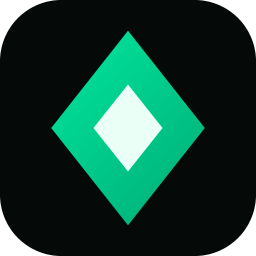
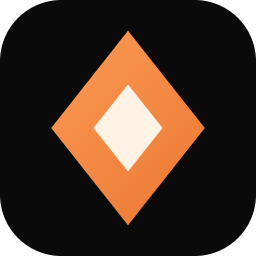
تصميم جديد بأسلوب OpenCode: لوحة سوداء محايدة بلمسة برتقالية، زوايا شبه حادة، خطوط mono، وأيقونة مطابقة

Changed region(s): [[0.1875, 0.125, 0.8125, 0.875]]

diff --git a/theme.py b/theme.py
@@ -39,9 +39,10 @@ def ui_font(size=10, weight="normal"):
 
 
 def display_font(size=22, weight="bold"):
+    # عناوين بأسلوب الطرفية: monospace يعطي طابع TUI حتى في النوافذ.
     if weight == "normal":
-        return (DISPLAY_FONT_FAMILY, size)
-    return (DISPLAY_FONT_FAMILY, size, weight)
+        return (MONO_FONT_FAMILY, size)
+    return (MONO_FONT_FAMILY, size, weight)
 
 
 def mono_font(size=10, weight="normal"):
@@ -61,7 +62,8 @@ SPACE = {
 }
 
 # نصف قطر الزوايا الموحّد للبطاقات والأزرار.
-RADIUS = {"sm": 6, "md": 10, "lg": 14}
+# حواف شبه حادة بأسلوب الطرفية (terminal)؛ التفاصيل الأربعة تظل لطيفة في الفاتح.
+RADIUS = {"sm": 3, "md": 5, "lg": 6}
 
 
 def shade(hex_color, factor):
@@ -112,11 +114,11 @@ def space(*keys):
 
 
 def thought_font():
-    return (UI_FONT_FAMILY, 9, "italic")
+    return (MONO_FONT_FAMILY, 9, "italic")
 
 
 def tool_line_font():
-    return (UI_FONT_FAMILY, 8, "italic")
+    return (MONO_FONT_FAMILY, 8, "italic")
 
 
 def menu_font():
@@ -149,28 +151,29 @@ COLORS = {
     "secondary_bg": "#E6EEEB",
 }
 
-# هوية «أخضر زمردي على قماش داكن» احترافية بطابع تقني هادئ.
-# سلّم عمق: fog (رئيسية) < secondary_bg < surface (بطاقات) < chip/elevated.
+# هوية «طرفية OpenCode»: أسود محايد رمادي (ليس مخضرًّا) مع لمسة برتقالية واحدة،
+# حواف شبه حادة وطبقة mono للتفاصيل — إحساس TUI داخل نافذة سطح مكتب.
+# سلّم عمق محايد: fog (رئيسية) < secondary_bg < surface (بطاقات) < chip/elevated.
 DARK_COLORS = {
-    "ink": "#F3F7F5",       # نص رئيسي
-    "fog": "#07110F",       # خلفية رئيسية
-    "surface": "#10201C",   # خلفية البطاقات
-    "muted": "#9AB0A9",     # نص ثانوي
-    "teal": "#00D99A",      # اللون الأساسي
-    "copper": "#F5B942",    # تحذير/إبراز ثانوي
-    "danger": "#FF647C",    # خطأ
-    "line": "#223A33",      # حدود خفيفة
-    "soft_teal": "#0C2A22",  # خلفية أساسية ناعمة (فقاعة المستخدم/النشط)
-    "soft_copper": "#2C2612",
-    "soft_danger": "#2E1820",
-    "focus": "#19E6AC",     # الأساسي عند التحويم/حلقة التركيز
-    "band_bg": "#0B1714",   # خلفية ثانوية (شريط الحالة)
-    "band_fg": "#F3F7F5",
-    "chip": "#142823",      # خلفية مرتفعة (الرقائق)
-    "chip_fg": "#D7E6E0",
-    "success": "#25C990",
-    "warning": "#F5B942",
-    "info": "#55A7FF",
-    "elevated": "#142823",
-    "secondary_bg": "#0B1714",
+    "ink": "#EDEDEE",       # نص رئيسي فاتح محايد
+    "fog": "#0A0A0A",       # خلفية رئيسية شبه سوداء
+    "surface": "#141414",   # خلفية البطاقات
+    "muted": "#8A8A8A",     # نص ثانوي رمادي
+    "teal": "#FF8F40",      # اللون الأساسي (برتقالي OpenCode)
+    "copper": "#FFC878",    # تحذير/إبراز ثانوي
+    "danger": "#FF6B6B",    # خطأ
+    "line": "#262626",      # حدود خفيفة محايدة
+    "soft_teal": "#1D1611",  # خلفية أساسية ناعمة (فقاعة المستخدم/النشط) بدفء برتقالي
+    "soft_copper": "#211B10",
+    "soft_danger": "#2A1418",
+    "focus": "#FFA35C",     # الأساسي عند التحويم/حلقة التركيز
+    "band_bg": "#0F0F0F",   # خلفية ثانوية (شريط الحالة)
+    "band_fg": "#EDEDEE",
+    "chip": "#1B1B1B",      # خلفية مرتفعة (الرقائق)
+    "chip_fg": "#D4D4D4",
+    "success": "#4AD98F",
+    "warning": "#FFC878",
+    "info": "#6FA8FF",
+    "elevated": "#1B1B1B",
+    "secondary_bg": "#0F0F0F",
 }

diff --git a/tools/make_icon.py b/tools/make_icon.py
@@ -1,7 +1,7 @@
 """مولّد أيقونة التطبيق: يكتب assets/app_icon.ico و assets/app_icon.png بلا تبعيات.
 
-التصميم يطابق هوية «الوكيل المحلي»: مربّع بزوايا دائرية بلون الحبر الداكن،
-ومعيّن ◆ بلون الطين مع لمسة نحاسية، وحرف صغير من العلامة. يُرسَم بتنعيم حواف
+التصميم يطابق هوية «الوكيل المحلي» بأسلوب OpenCode: مربّع بزوايا دائرية
+بلون الحبر المحايد، ومعيّن ◆ برتقالي متدرّج، ولبّ كريمي. يُرسَم بتنعيم حواف
 عبر الإفراط في العيّنات (supersampling) ثم التصغير، ويُرمّز PNG يدويًا بـ zlib.
 
 التشغيل:
@@ -12,11 +12,11 @@ import struct
 import zlib
 from pathlib import Path
 
-# هوية «أسود بالزمرد»: مربّع أسود عميق، معيّن زمردي مشبع بتدرّج، ولمعة نعناع.
-INK = (0x05, 0x09, 0x07)     # قاعدة سوداء عميقة
-CLAY = (0x00, 0xF5, 0xA8)    # زمرد مشرق (أعلى المعيّن)
-COPPER = (0x00, 0x9E, 0x6B)  # زمرد أعمق (أسفل المعيّن)
-CREAM = (0xEA, 0xFF, 0xF6)   # نعناع فاتح للّب
+# هوية «طرفية OpenCode»: مربّع أسود محايد، معيّن برتقالي مشبع بتدرّج، ولمعة كريمية.
+INK = (0x0A, 0x0A, 0x0A)     # قاعدة سوداء محايدة (نفس fog في الثيم الداكن)
+CLAY = (0xFF, 0xA3, 0x5C)    # برتقالي فاتح (أعلى المعيّن، نفس focus)
+COPPER = (0xE8, 0x6F, 0x2A)  # برتقالي أعمق (أسفل المعيّن، قريب من teal)
+CREAM = (0xFF, 0xF3, 0xE6)   # كريمي دافئ للّب
 
 ICO_SIZES = (16, 24, 32, 48, 64, 128, 256)
 SUPERSAMPLE = 6

diff --git a/test_desktop_app.py b/test_desktop_app.py
@@ -85,6 +85,16 @@ class WorkspaceBriefingTests(unittest.TestCase):
         self.assertEqual(stats["files"], 2)
         self.assertTrue(stats["truncated"])
 
+    def test_describe_labels_extensionless_files(self):
+        with tempfile.TemporaryDirectory() as temp_dir:
+            root = Path(temp_dir)
+            (root / "Dockerfile").write_text("x", encoding="utf-8")
+            (root / "LICENSE").write_text("x", encoding="utf-8")
+            (root / "main.py").write_text("x", encoding="utf-8")
+            stats = describe_workspace(root)
+        self.assertEqual(stats["top"][0], ("بدون امتداد", 2))
+        self.assertEqual(stats["top"][1], ("Python", 1))
+
     def test_briefing_text_is_actionable(self):
         empty = build_workspace_briefing({
             "files": 0, "directories": 0, "truncated": False, "top": [],

diff --git a/desktop_app.py b/desktop_app.py
@@ -625,7 +625,7 @@ class LocalAgentApp:
                 cursor="hand2",
             )
             button.pack()
-            # مؤشّر خط سفلي زمردي يظهر تحت التبويب النشط فقط.
+            # مؤشّر خط سفلي بلون الأساسي يظهر تحت التبويب النشط فقط.
             underline = tk.Frame(cell, height=2, bg=COLORS["surface"])
             underline.pack(fill="x", pady=(3, 0))
             self._tab_buttons[str(page)] = button

diff --git a/desktop_core.py b/desktop_core.py
@@ -171,7 +171,7 @@ def describe_workspace(root, max_files=4000):
             names[:] = []
     ranked = sorted(ext_counts.items(), key=lambda item: (-item[1], item[0]))
     top = [
-        (LANGUAGE_LABELS.get(suffix, f".{suffix}"), count)
+        (LANGUAGE_LABELS.get(suffix, f".{suffix}" if suffix else "بدون امتداد"), count)
         for suffix, count in ranked[:3]
         if count
     ]
